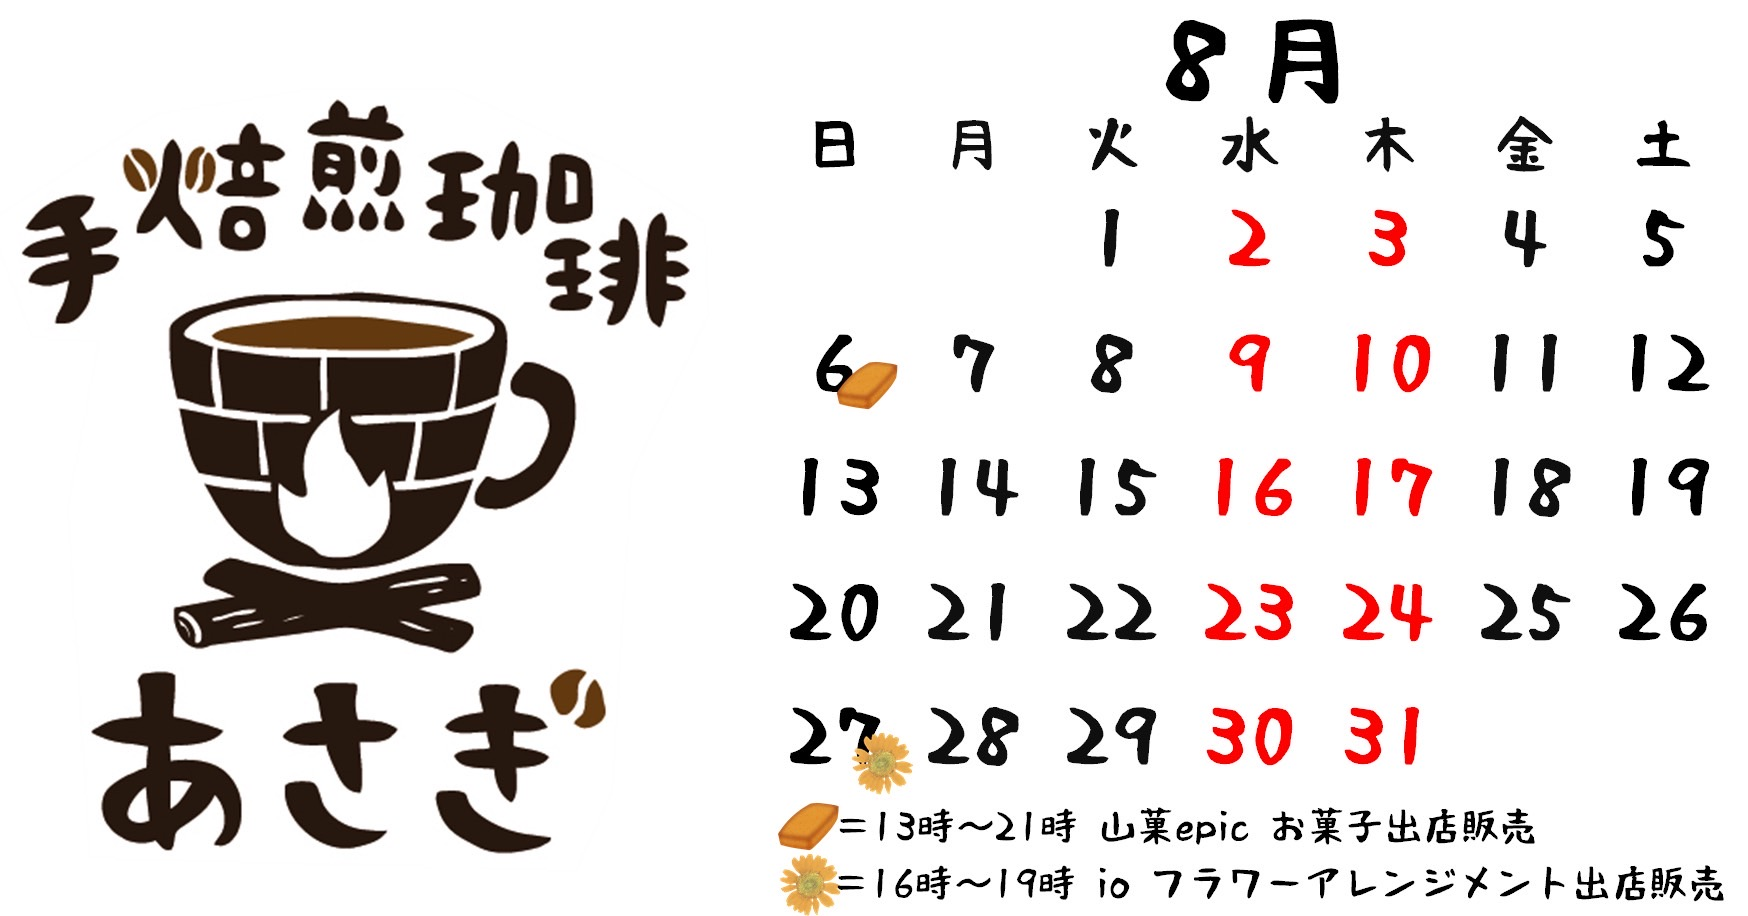
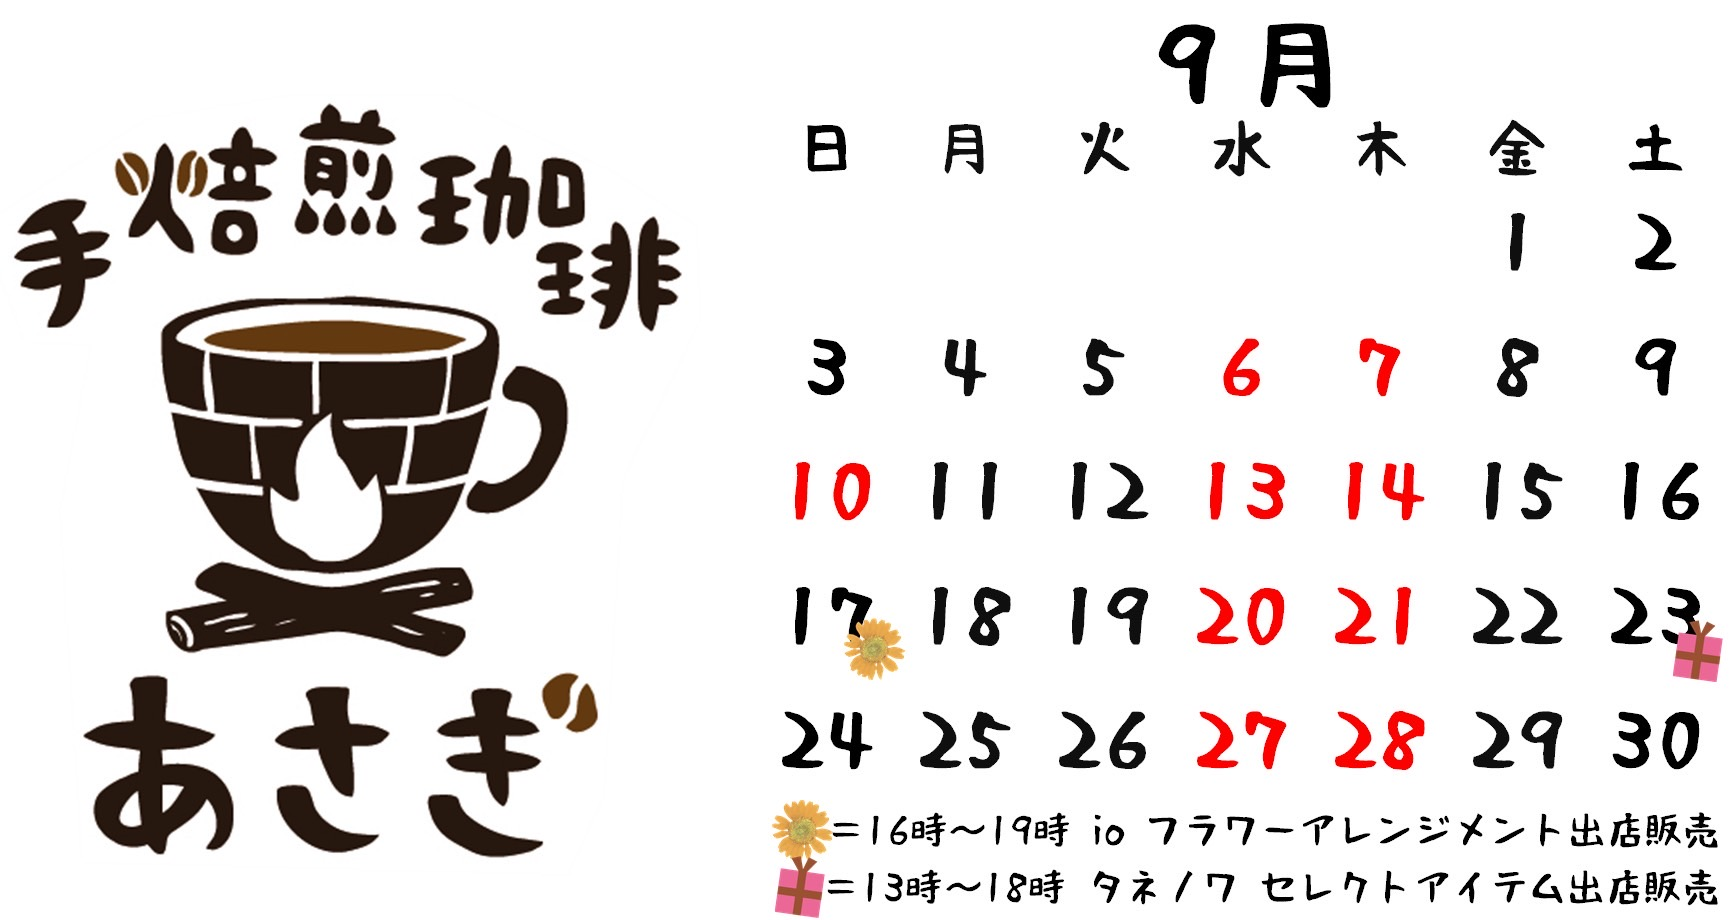
カレンダー　季節の豆　変更

diff --git a/bean.html b/bean.html
@@ -100,8 +100,8 @@
         <!-- 最新のお知らせ -->
         <div class="event">
             <div class="eventbox">
-                <a href="img/23sum.jpg" data-lightbox="group">
-                    <img src="img/23sum.jpg" width="100%">
+                <a href="img/23fall.jpg" data-lightbox="group">
+                    <img src="img/23fall.jpg" width="100%">
                 </a>
             </div>
         </div>
